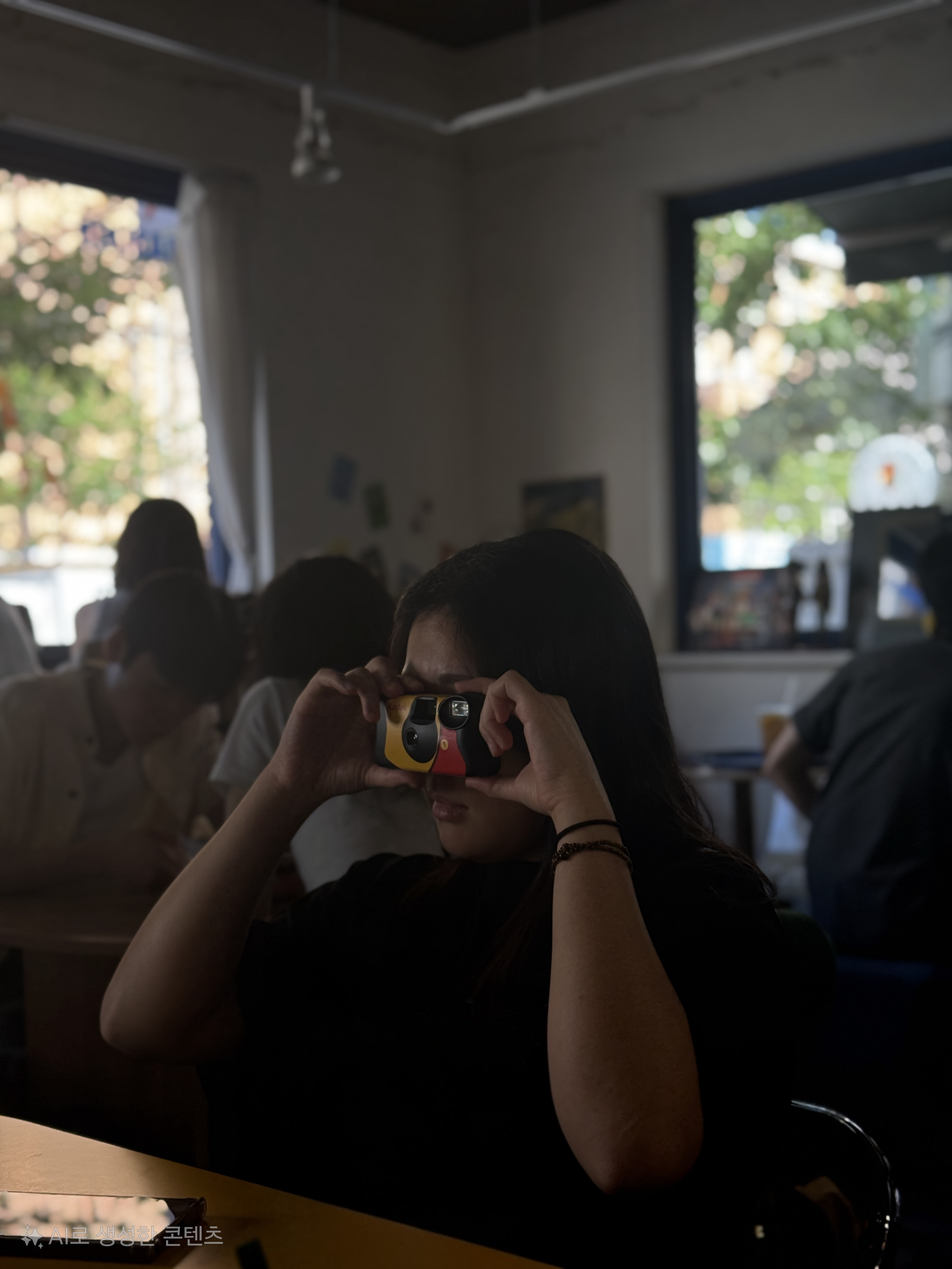
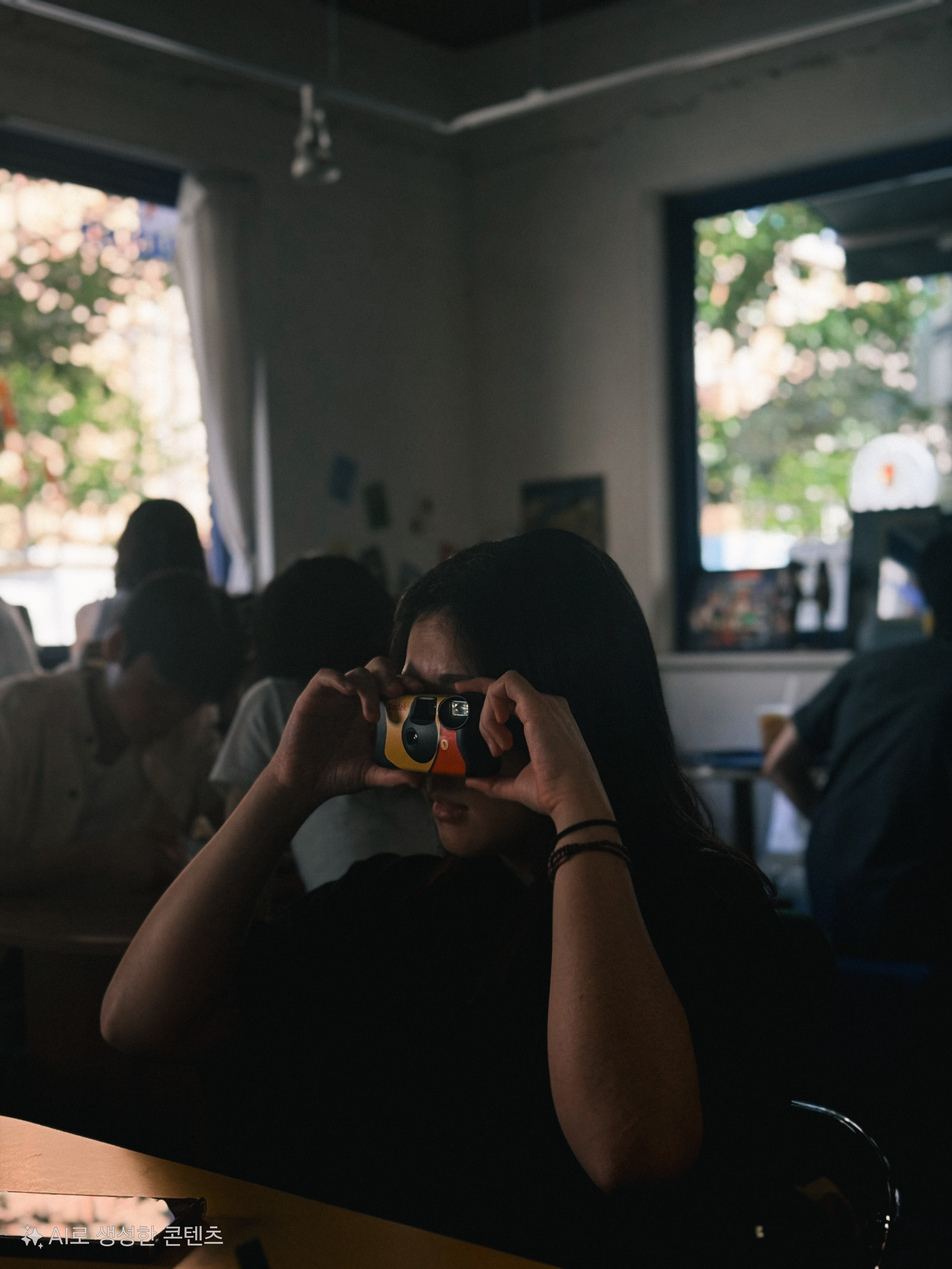
deploy: EunSeo0117/resume@bf463402244ff1d5de7ffa8f6fc3d6ac13b2b008

diff --git a/resume/index.html b/resume/index.html
@@ -24,56 +24,8 @@
     </div>
     <div class="col-xs-12 col-sm-6 col-md-6 col-lg-4 header-right">
       <ul class="icons no-print"><li>
-            <a target="_blank" href="https://dribbble.com/jekyll" class="button button--sacnite button--round-l">
-              <i class="fab fa-dribbble-square" title="Dribble link"></i>
-            </a>
-          </li><li>
-            <a target="_blank" href="https://www.facebook.com/jekyll" class="button button--sacnite button--round-l">
-              <i class="fab fa-facebook" title="Facebook link"></i>
-            </a>
-          </li><li>
-            <a target="_blank" href="https://www.flickr.com/photos/jekyll" class="button button--sacnite button--round-l">
-              <i class="fab fa-flickr" title="Flickr link"></i>
-            </a>
-          </li><li>
-            <a target="_blank" href="https://github.com/jekyll" class="button button--sacnite button--round-l">
+            <a target="_blank" href="https://github.com/EunSeo0117" class="button button--sacnite button--round-l">
               <i class="fab fa-github" title="Github link"></i>
-            </a>
-          </li><li>
-            <a target="_blank" href="https://stackoverflow.com/users/00000001" class="button button--sacnite button--round-l">
-              <i class="fab fa-stack-overflow" title="Stackoverflow link"></i>
-            </a>
-          </li><li>
-            <a target="_blank" href="https://www.instagram.com/jekyll" class="button button--sacnite button--round-l">
-              <i class="fab fa-instagram" title="Instagram link"></i>
-            </a>
-          </li><li>
-            <a target="_blank" href="https://www.linkedin.com/in/jekyll" class="button button--sacnite button--round-l">
-              <i class="fab fa-linkedin" title="Linkedin link"></i>
-            </a>
-          </li><li>
-            <a target="_blank" href="https://www.xing.com/profile/jekyll" class="button button--sacnite button--round-l">
-              <i class="fab fa-xing" title="Xing link"></i>
-            </a>
-          </li><li>
-            <a target="_blank" href="https://www.pinterest.com/jekyll" class="button button--sacnite button--round-l">
-              <i class="fab fa-pinterest" title="Pintrest link"></i>
-            </a>
-          </li><li>
-            <a target="_blank" href="https://twitter.com/jekyllrb" class="button button--sacnite button--round-l">
-              <i class="fab fa-twitter" title="Twitter link"></i>
-            </a>
-          </li><li>
-            <a target="_blank" href="https://www.youtube.com/jekyll" class="button button--sacnite button--round-l">
-              <i class="fab fa-youtube" title="Youtube link"></i>
-            </a>
-          </li><li>
-            <a target="_blank" href="https://orcid.org/0000-0000-0000-0000" class="button button--sacnite button--round-l">
-              <i class="fab fa-orcid" title="ORCiD link"></i>
-            </a>
-          </li><li>
-            <a target="_blank" href="https://scholar.google.com/citations?user=D847cGsAAAAJ" class="button button--sacnite button--round-l">
-              <i class="fab fa-google" title="Google scholar link"></i>
             </a>
           </li>
           <li>
@@ -99,7 +51,7 @@
   <div class="row clearfix"><div class="col-xs-12 col-sm-4 col-md-3 no-print">
         <span class="profile-img" style="background-image: url(/resume/images/profile_image.jpeg)"></span>
       </div><div class="col-xs-12 col-sm-8 col-md-9 col-print-12">
-      <p>‘ Vires accquirit eundo ’ - 나아감으로써 힘을 얻는다 |
+      <p>‘ Vires accquirit eundo ’ - 나아감으로써 힘을 얻는다
 배움을 위해 끊임없이 나아가는 주니어 개발자 한은서 입니다 😊</p>
 
     </div>
